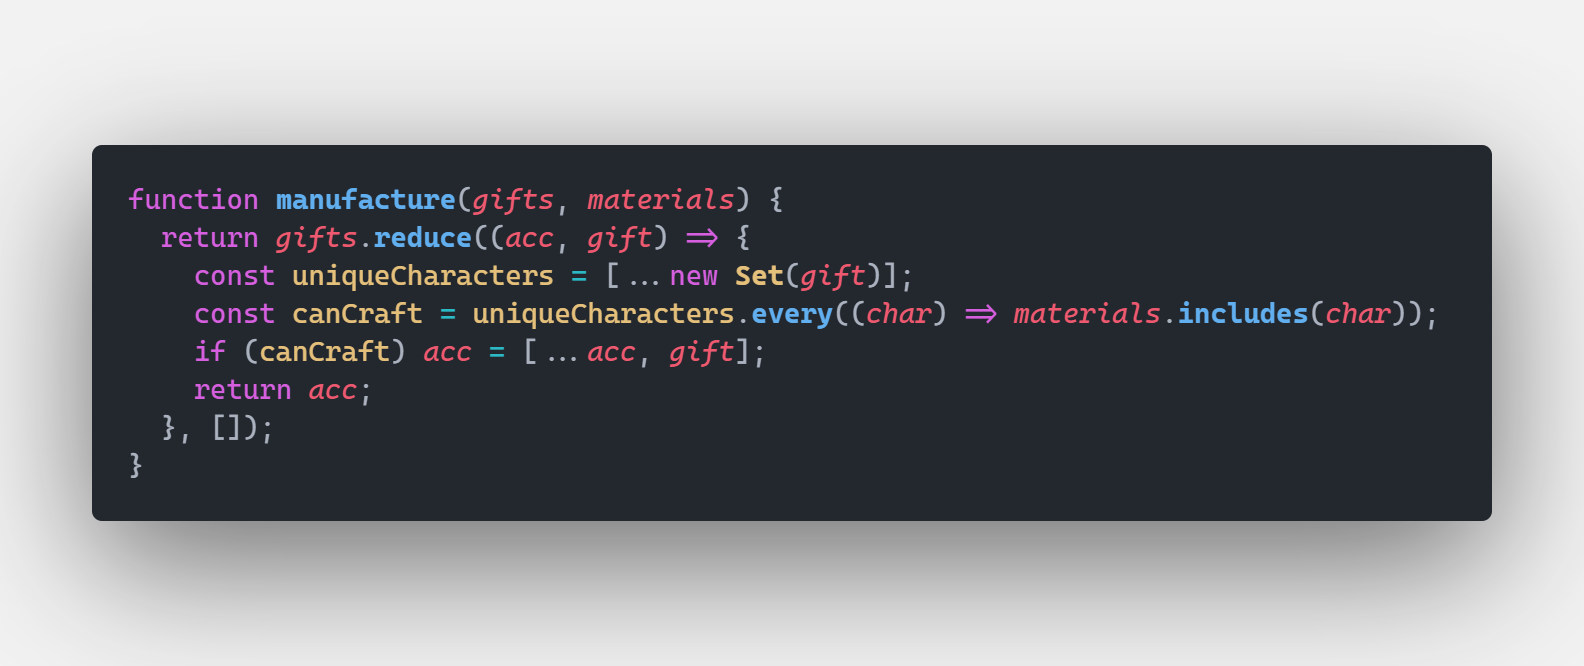
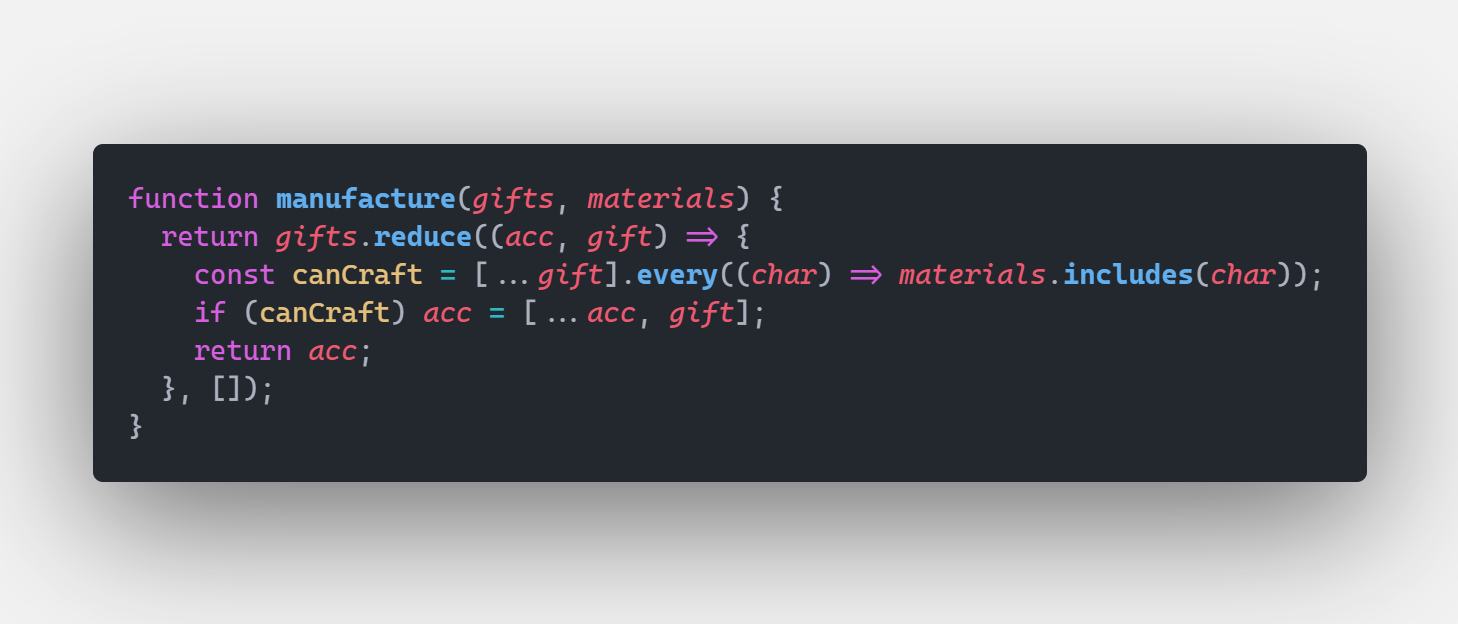
Refactor #2 challenge

Changed region(s): [[0.0309, 0.2131, 0.9568, 0.7917]]

diff --git a/#2 - 🏭 Ponemos en marcha la fábrica/index.js b/#2 - 🏭 Ponemos en marcha la fábrica/index.js
@@ -1,7 +1,6 @@
 function manufacture(gifts, materials) {
   return gifts.reduce((acc, gift) => {
-    const uniqueCharacters = [...new Set(gift)];
-    const canCraft = uniqueCharacters.every((char) => materials.includes(char));
+    const canCraft = [...gift].every((char) => materials.includes(char));
     if (canCraft) acc = [...acc, gift];
     return acc;
   }, []);
